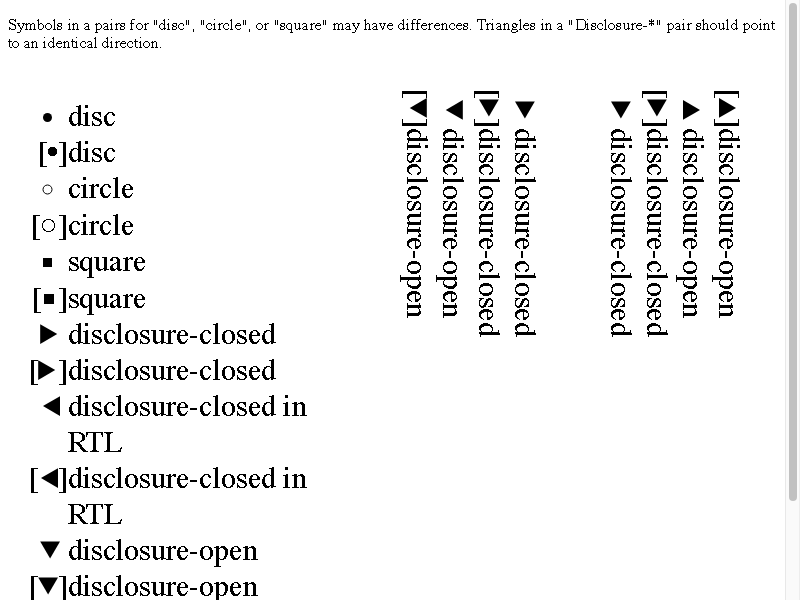
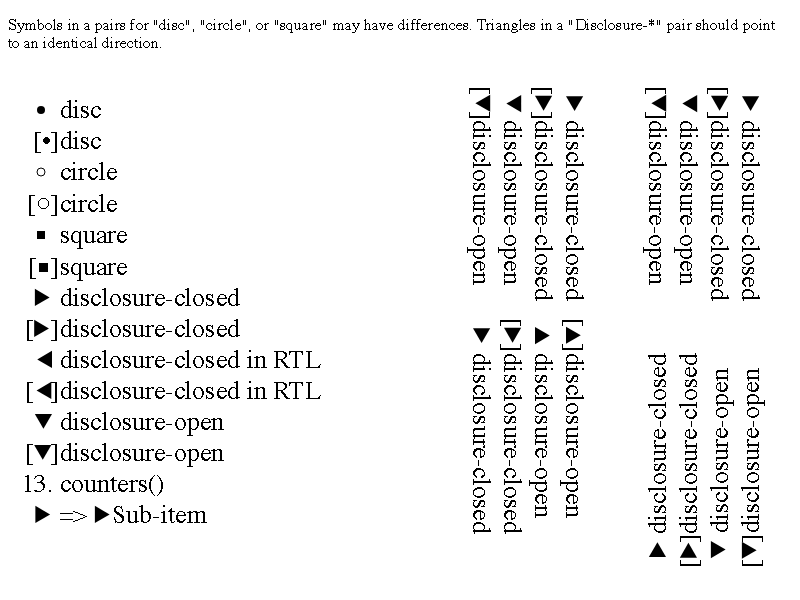
sideways: Support for disclosure-* list-style-types
GetDisclosureOrientation() uses the physical direction getters of
WirtingDirectionMode.

Bug: 40501131
Auto-Submit: Kent Tamura <tkent@chromium.org>
Commit-Queue: Koji Ishii <kojii@chromium.org>
Cr-Commit-Position: refs/heads/main@{#1322971}

diff --git a/web_tests/fast/css/counters/counter-predefined-symbol.html b/web_tests/fast/css/counters/counter-predefined-symbol.html
@@ -1,7 +1,7 @@
 <!DOCTYPE html>
 <style>
 .columns {
-  font-size: 30px;
+  font-size: 26px;
   display: flex;
 }
 ol {
@@ -81,6 +81,7 @@ Triangles in a "Disclosure-*" pair should point to an identical direction.</p>
    </ol>
   </li>
 </ol>
+<div>
 <ol style="writing-mode: vertical-rl;">
   <li class="dc">disclosure-closed</li>
   <li class="dc-counter">disclosure-closed</li>
@@ -93,5 +94,20 @@ Triangles in a "Disclosure-*" pair should point to an identical direction.</p>
   <li class="do">disclosure-open</li>
   <li class="do-counter">disclosure-open</li>
 </ol>
+</div>
+<div>
+<ol style="writing-mode: sideways-rl;">
+  <li class="dc">disclosure-closed</li>
+  <li class="dc-counter">disclosure-closed</li>
+  <li class="do">disclosure-open</li>
+  <li class="do-counter">disclosure-open</li>
+</ol>
+<ol style="writing-mode: sideways-lr;">
+  <li class="dc">disclosure-closed</li>
+  <li class="dc-counter">disclosure-closed</li>
+  <li class="do">disclosure-open</li>
+  <li class="do-counter">disclosure-open</li>
+</ol>
+</div>
 </div>
 </body>

diff --git a/renderer/core/paint/text_fragment_painter.cc b/renderer/core/paint/text_fragment_painter.cc
@@ -140,28 +140,10 @@ bool ShouldPaintEmphasisMark(const ComputedStyle& style,
   return ruby_logical_side != style.GetTextEmphasisLineLogicalSide();
 }
 
-enum class DisclosureOrientation { kLeft, kRight, kUp, kDown };
-
-DisclosureOrientation GetDisclosureOrientation(const ComputedStyle& style,
-                                               bool is_open) {
-  // TODO(layout-dev): Sideways-lr and sideways-rl are not yet supported.
-  const auto mode = style.GetWritingMode();
-  DCHECK_NE(mode, WritingMode::kSidewaysRl);
-  DCHECK_NE(mode, WritingMode::kSidewaysLr);
-
-  if (is_open) {
-    if (blink::IsHorizontalWritingMode(mode)) {
-      return DisclosureOrientation::kDown;
-    }
-    return IsFlippedBlocksWritingMode(mode) ? DisclosureOrientation::kLeft
-                                            : DisclosureOrientation::kRight;
-  }
-  if (blink::IsHorizontalWritingMode(mode)) {
-    return style.IsLeftToRightDirection() ? DisclosureOrientation::kRight
-                                          : DisclosureOrientation::kLeft;
-  }
-  return style.IsLeftToRightDirection() ? DisclosureOrientation::kDown
-                                        : DisclosureOrientation::kUp;
+PhysicalDirection GetDisclosureOrientation(const ComputedStyle& style,
+                                           bool is_open) {
+  const auto direction_mode = style.GetWritingDirection();
+  return is_open ? direction_mode.BlockEnd() : direction_mode.InlineEnd();
 }
 
 Path CreatePath(const gfx::PointF* path) {
@@ -184,13 +166,13 @@ Path GetCanonicalDisclosurePath(const ComputedStyle& style, bool is_open) {
       {0.0f, 0.07f}, {0.5f, 0.93f}, {1.0f, 0.07f}, {0.0f, 0.07f}};
 
   switch (GetDisclosureOrientation(style, is_open)) {
-    case DisclosureOrientation::kLeft:
+    case PhysicalDirection::kLeft:
       return CreatePath(kLeftPoints);
-    case DisclosureOrientation::kRight:
+    case PhysicalDirection::kRight:
       return CreatePath(kRightPoints);
-    case DisclosureOrientation::kUp:
+    case PhysicalDirection::kUp:
       return CreatePath(kUpPoints);
-    case DisclosureOrientation::kDown:
+    case PhysicalDirection::kDown:
       return CreatePath(kDownPoints);
   }
 

diff --git a/renderer/core/layout/list/list_marker.cc b/renderer/core/layout/list/list_marker.cc
@@ -446,10 +446,11 @@ PhysicalRect ListMarker::RelativeSymbolMarkerRect(
                                 LayoutUnit(3 * (ascent - ascent * 2 / 3) / 2),
                                 bullet_width, bullet_width);
   }
-  // TextDirection and the outer height don't matter here.
+  // TextDirection doesn't matter here.  Passing
+  // `relative_rect.size.inline_size` to get a correct result in sideways-lr.
   WritingModeConverter converter(
       {ToLineWritingMode(style.GetWritingMode()), TextDirection::kLtr},
-      PhysicalSize(width, LayoutUnit()));
+      PhysicalSize(width, relative_rect.size.inline_size));
   return converter.ToPhysical(relative_rect);
 }
 
